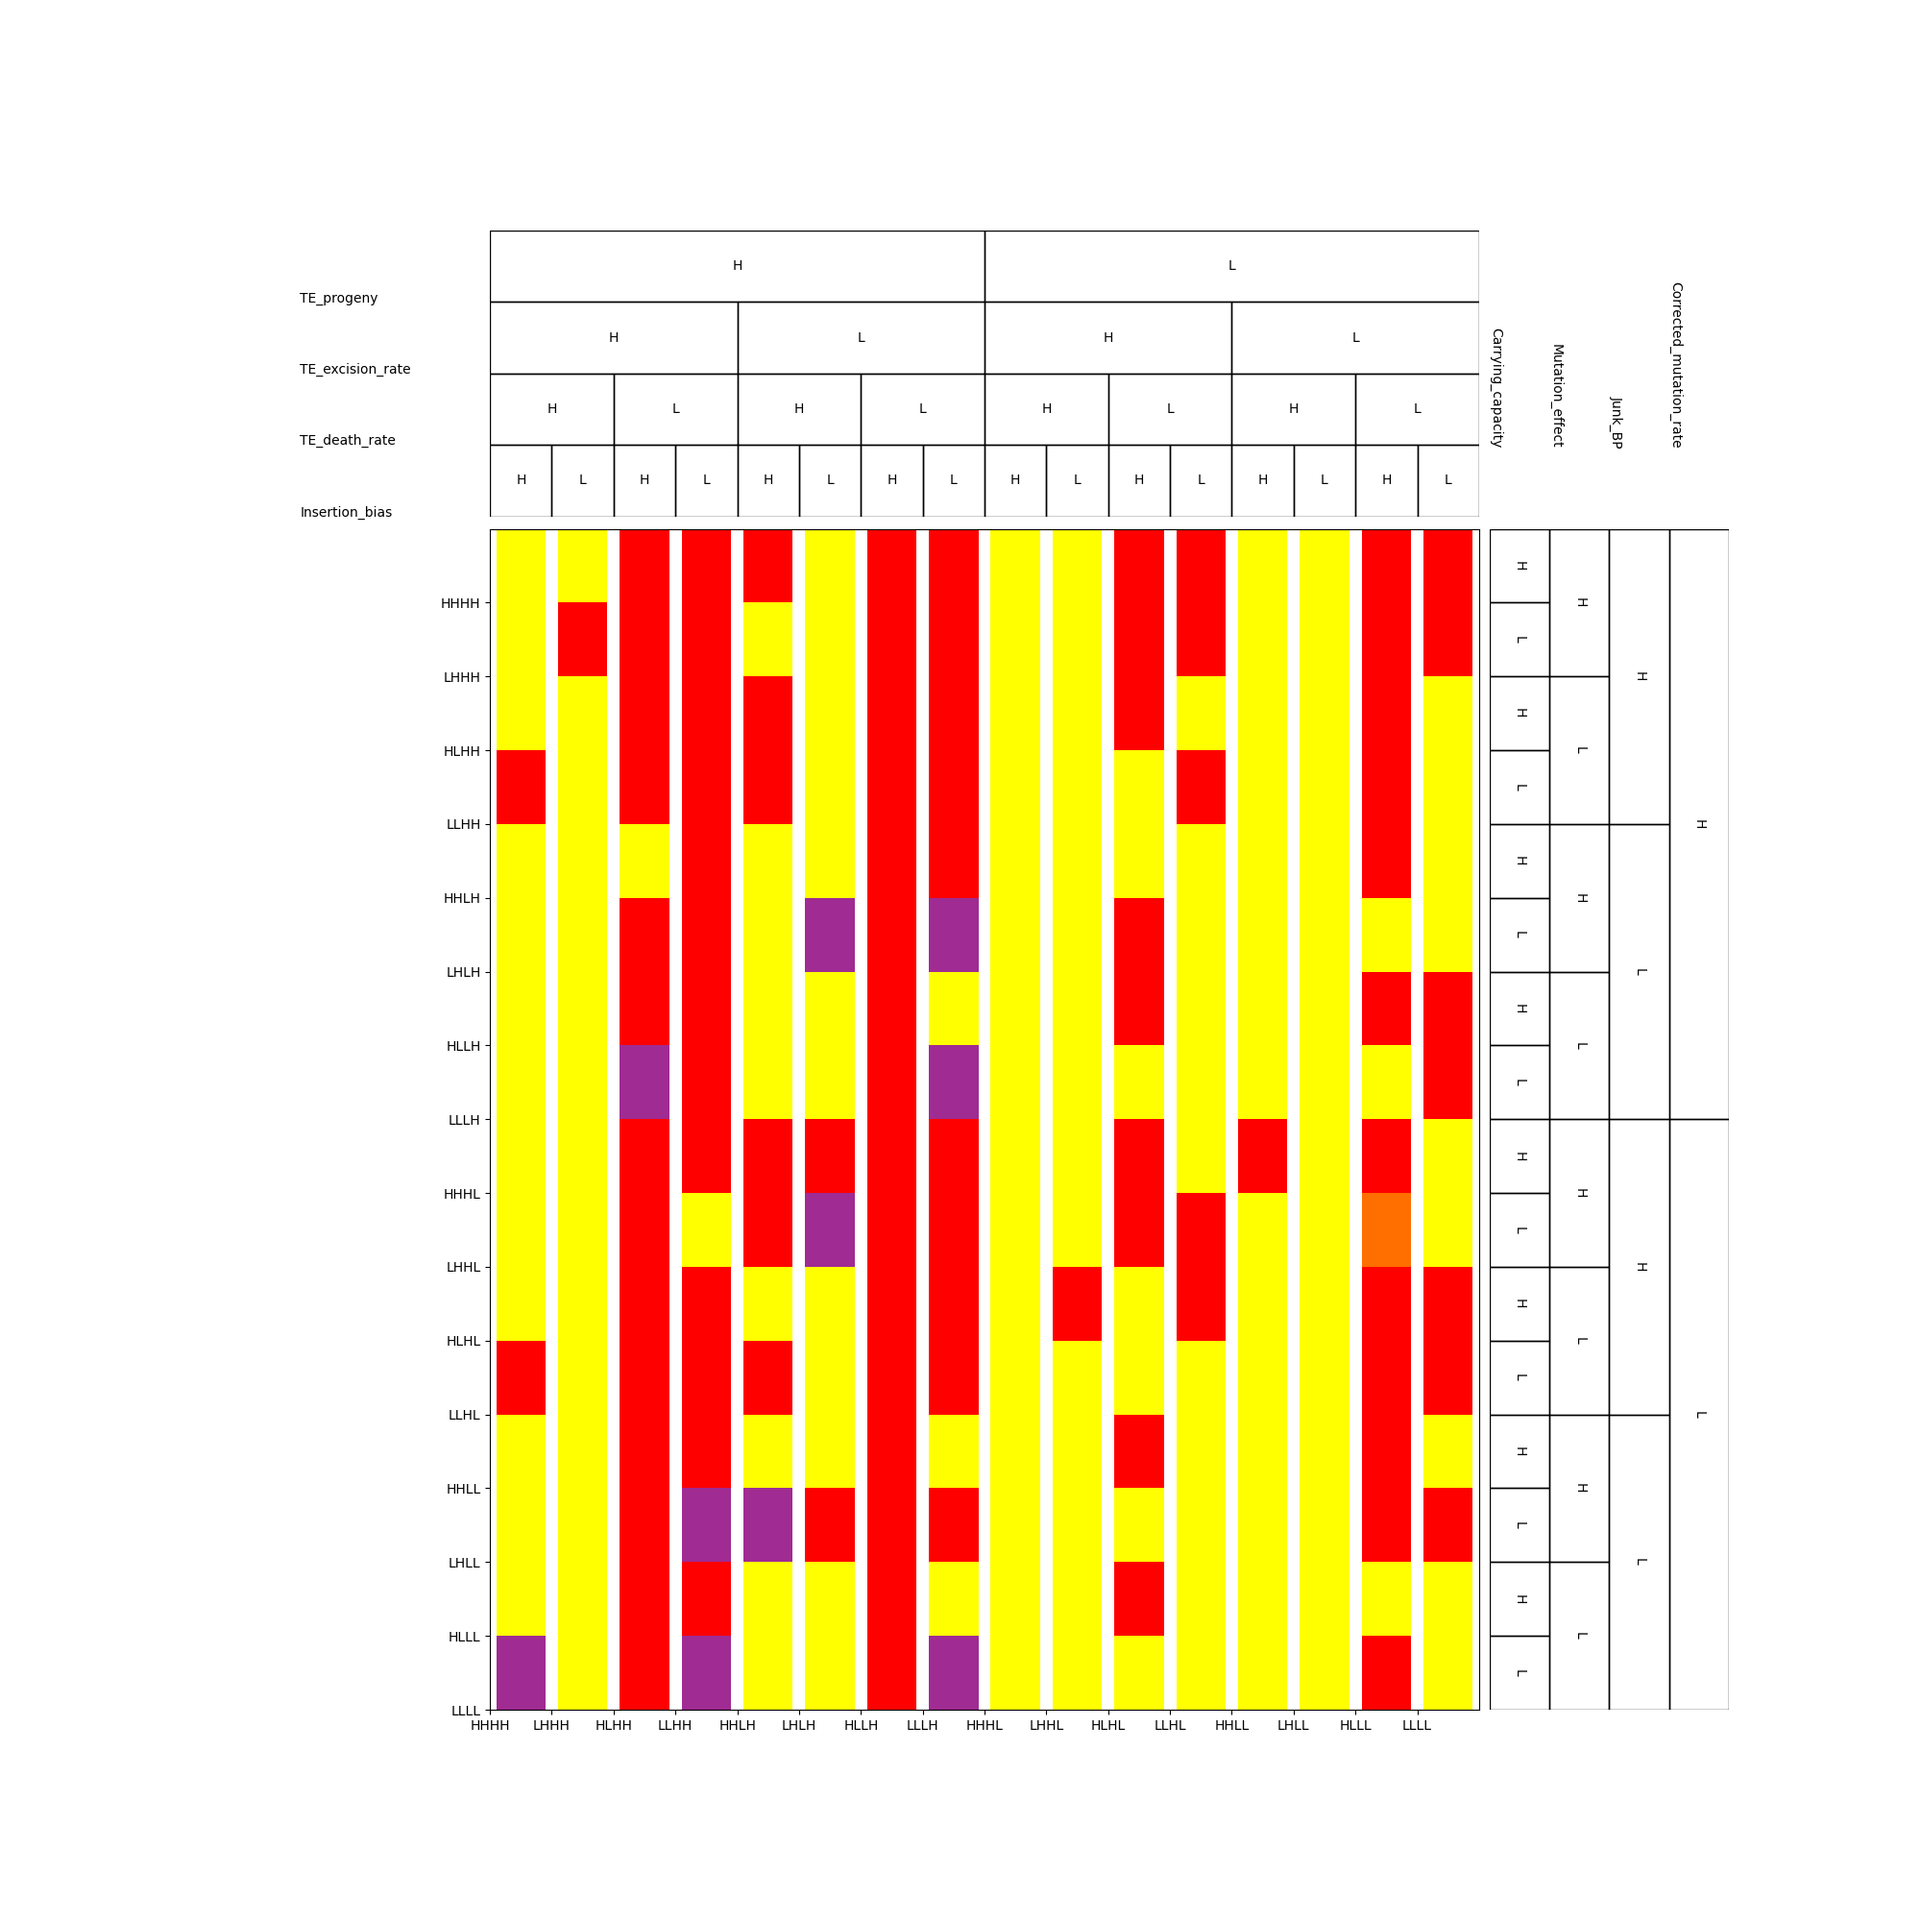
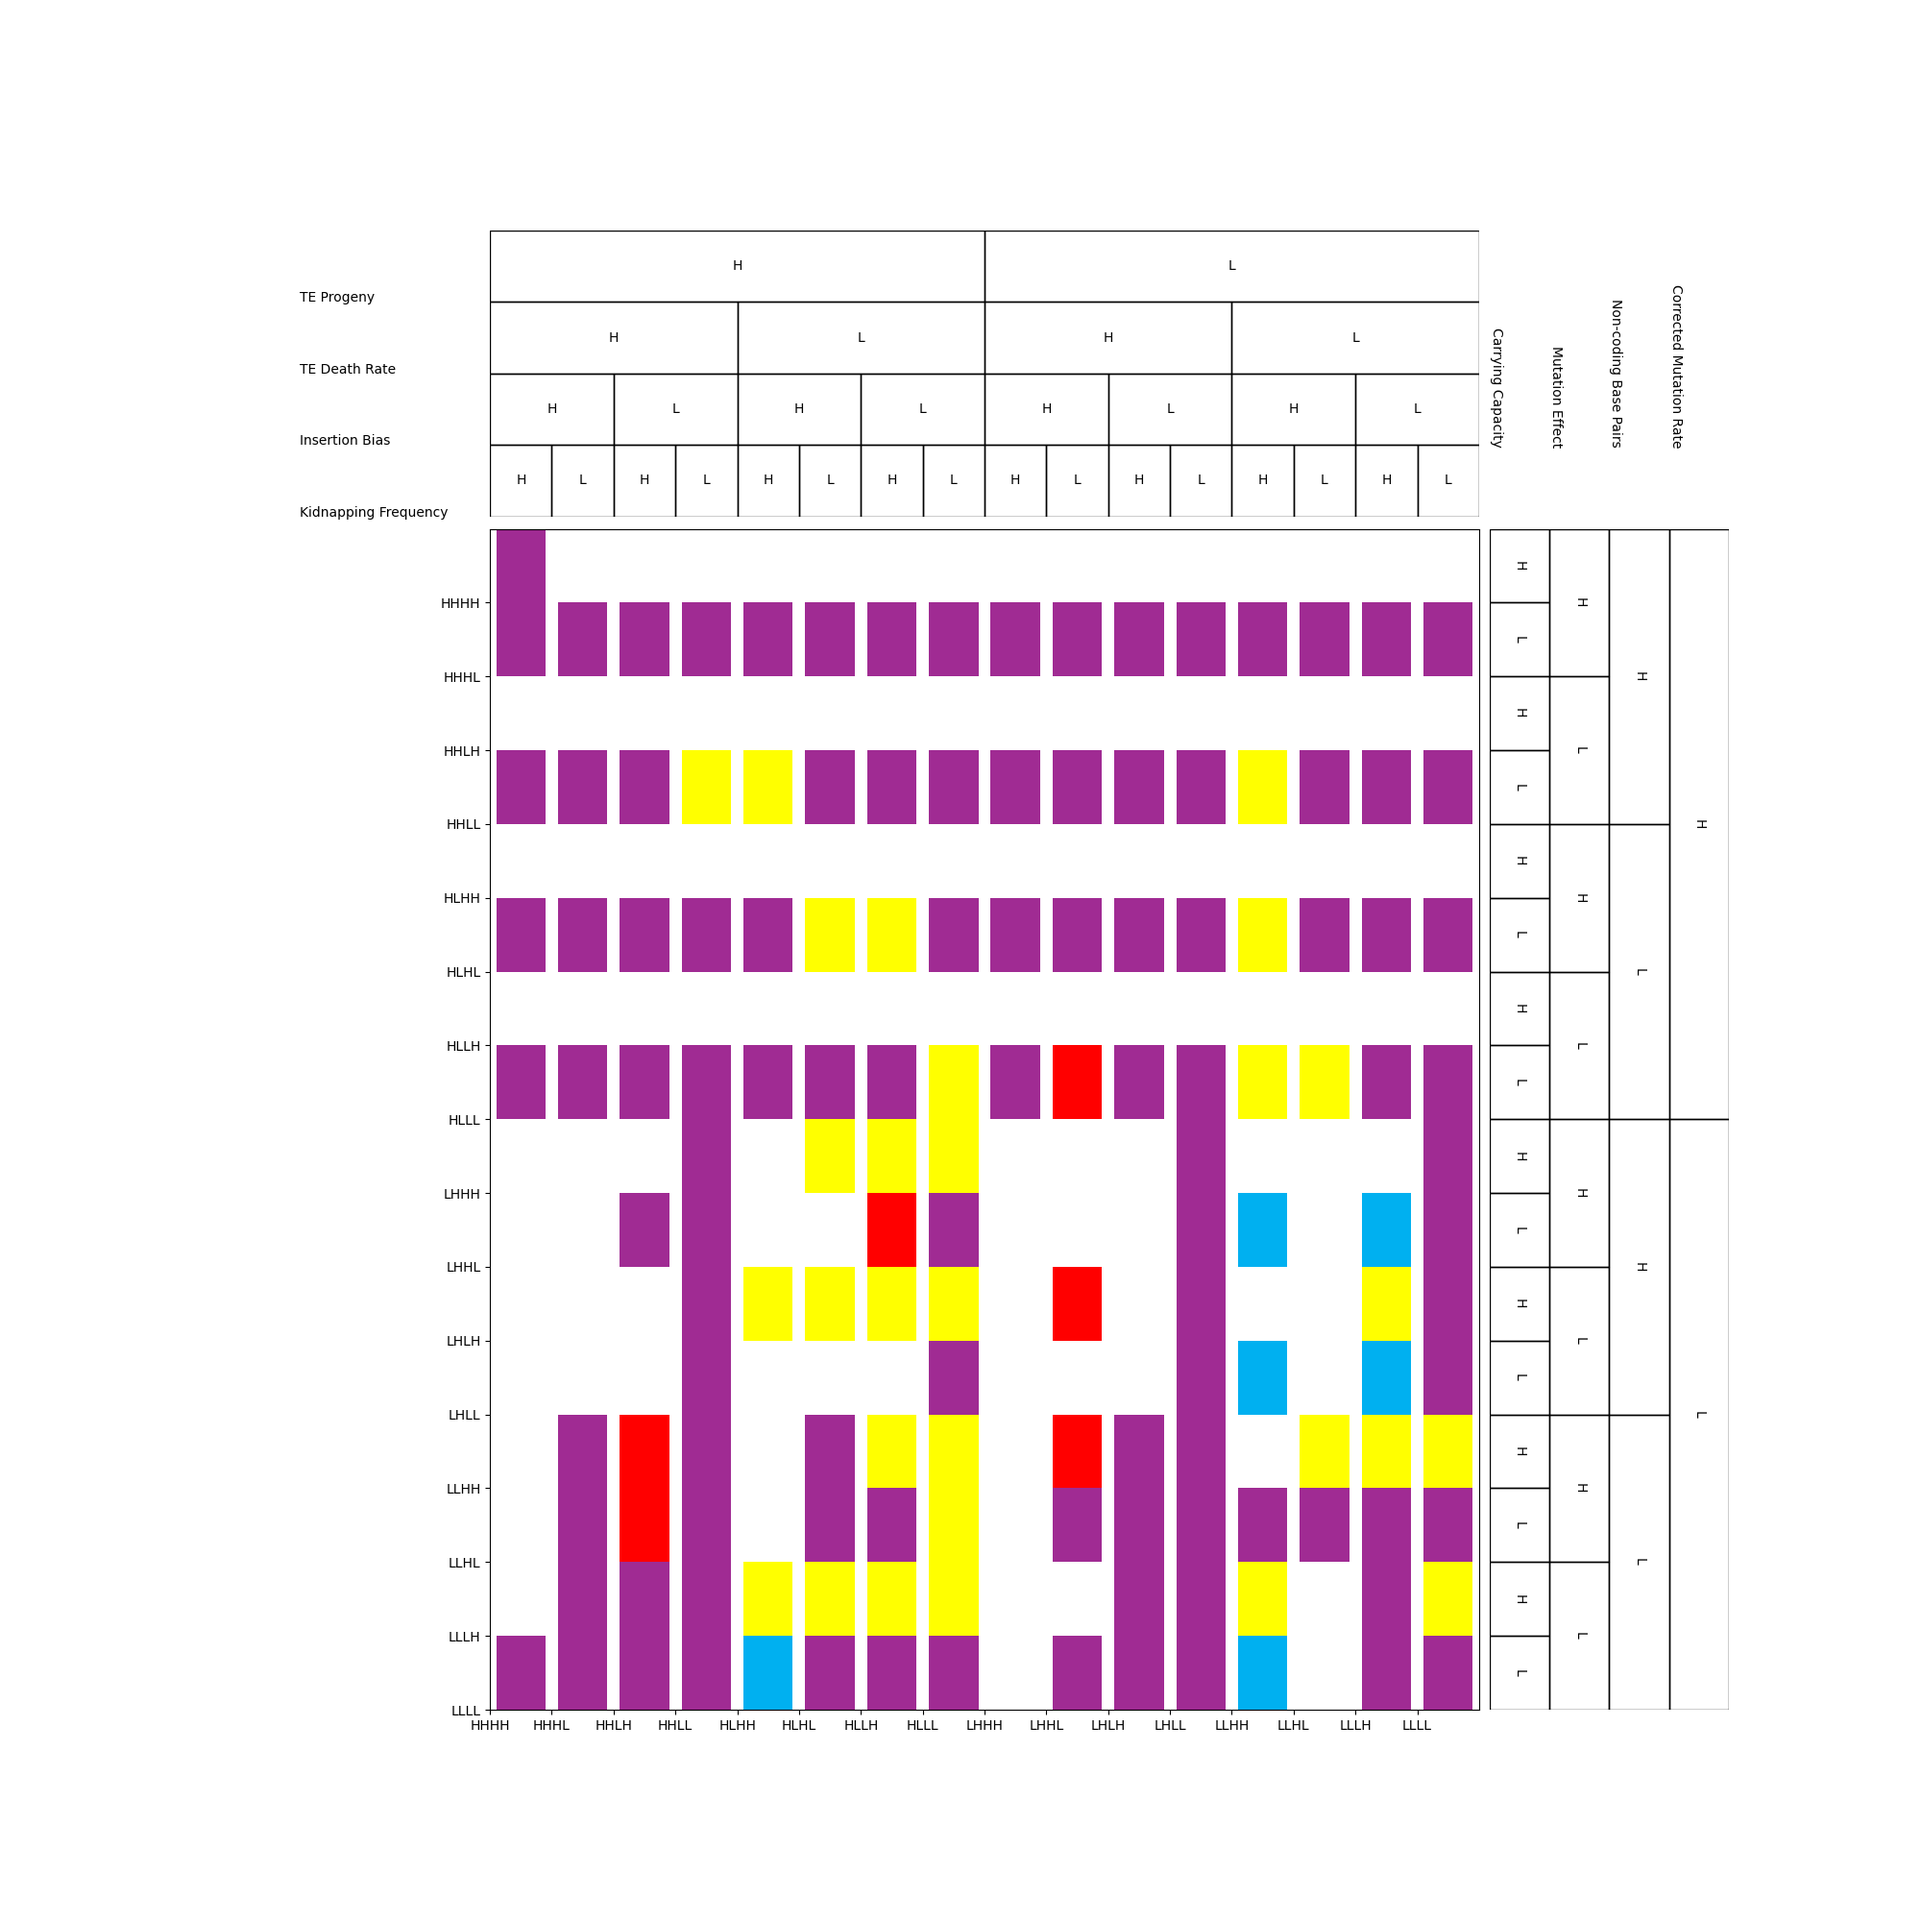
Change Example Graph

Changed region(s): [[0.248, 0.279, 0.775, 0.899], [0.868, 0.155, 0.899, 0.186], [0.155, 0.217, 0.186, 0.248]]

diff --git a/TEWorldCodeV2/TE-Simulations/CreateTraceGraphs.py b/TEWorldCodeV2/TE-Simulations/CreateTraceGraphs.py
@@ -83,7 +83,6 @@ class Trial:
         plt.close()
 
 def main():
-    # Find files like trace-001.csv
     files = sys.argv[1:]
     
     print(f"{len(files)} will be processed and graphed. Please wait...")

diff --git a/TEWorldCodeV2/TE-Simulations/README.md b/TEWorldCodeV2/TE-Simulations/README.md
@@ -65,5 +65,6 @@ In the results overview plots the colours correspond with the following scenario
 - **Red:** Non-autonomous TE persistence
 - **Yellow:** TE extinction (both autonomous and non-autonomous)
 - **Purple:** Host extinction
+- **White:** No results for experiment
 
 ![Example results overview plot](example-results-overview-plot.png)
